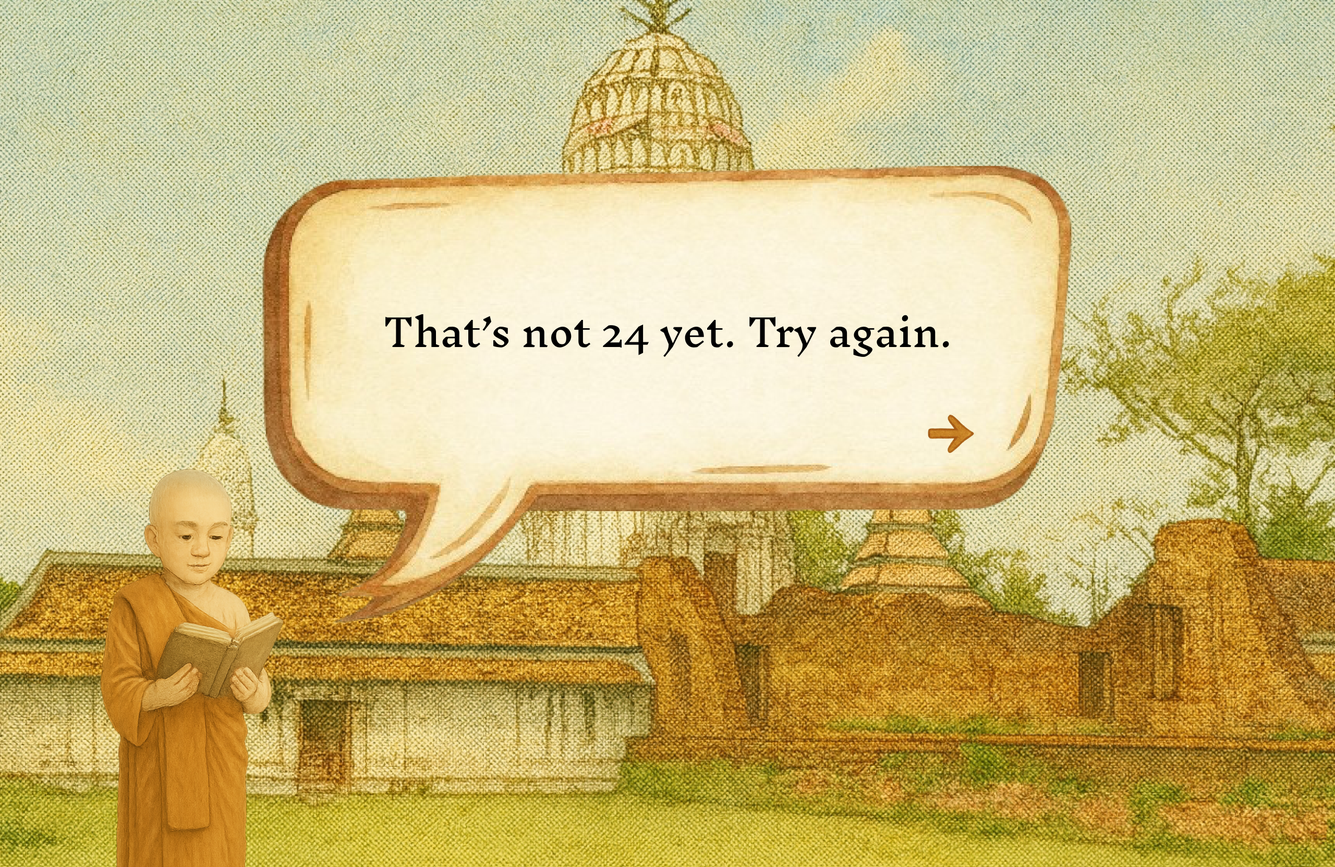
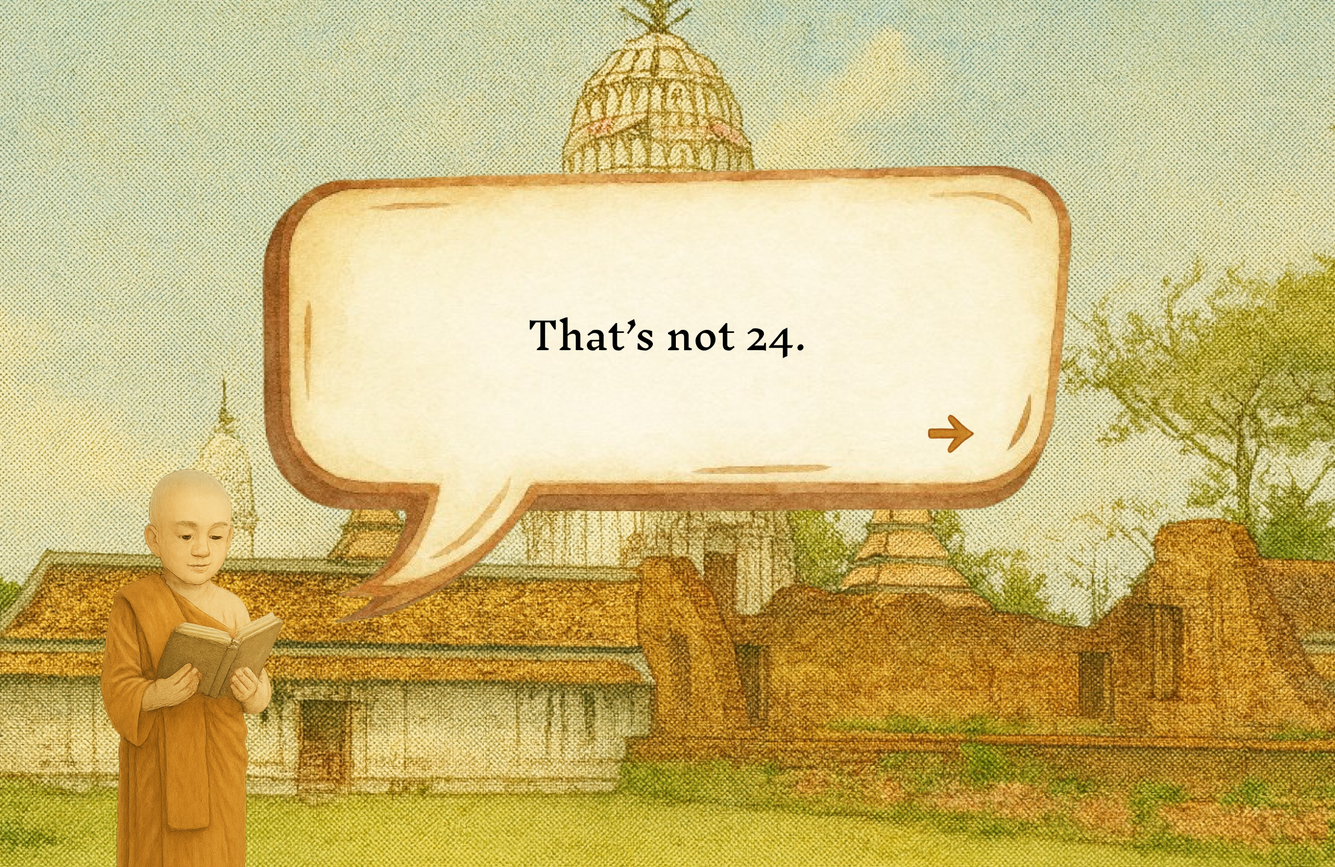
math img edit

Changed region(s): [[0.2812, 0.3438, 0.7188, 0.4062]]

diff --git a/module/games/events/math/math.py b/module/games/events/math/math.py
@@ -4,7 +4,7 @@ import importlib
 import importlib.util
 import os
 import sys
-from typing import List, Optional, Dict, Any
+from typing import List, Optional, Dict, Any, Callable
 
 
 def _ensure_std_math_module() -> None:
@@ -141,6 +141,13 @@ class MathEvent:
         self.slot_spacing = 160
         self.tile_spacing = 150
 
+        # Puzzle configuration (varies by block/button)
+        self.slot_count = 4
+        self.number_choices: List[int] = []
+        self.allow_tile_reuse = False
+        self.solution_checker: Callable[[List[int]], bool] = self._check_solution_default
+        self._configure_puzzle_settings()
+
         # Equal top/bottom padding for timer and submit button
         self.padding_y = int(self.screen_height * 0.05)  # top gap == bottom gap
 
@@ -157,8 +164,8 @@ class MathEvent:
         self.equation_bg_border_c = self.BROWN
 
         # Expression slots and selectable numbers
-        self.slots = self._create_slots()
-        self.number_tiles = self._create_number_tiles([2, 3, 4, 9])
+        self.slots = self._create_slots(self.slot_count)
+        self.number_tiles = self._create_number_tiles(self.number_choices)
 
         # Countdown tracking
         self.countdown_total_ms = 20000
@@ -217,8 +224,8 @@ class MathEvent:
             for index in range(count)
         ]
 
-    def _create_slots(self) -> List[Dict[str, Any]]:
-        centers = self._calculate_centers(4, self.slot_spacing, self.slot_row_y)
+    def _create_slots(self, count: int) -> List[Dict[str, Any]]:
+        centers = self._calculate_centers(count, self.slot_spacing, self.slot_row_y)
         slots: List[Dict[str, Any]] = []
         for center in centers:
             rect = pygame.Rect(0, 0, *self.slot_size)
@@ -301,28 +308,7 @@ class MathEvent:
 
         # --- Cleaner mid section: consistent Y, tidy helpers ---
         mid_y = slot_rects[0].centery
-        def mid_x(a: pygame.Rect, b: pygame.Rect) -> int:
-            return (a.centerx + b.centerx) // 2
-
-        text_positions = [
-            # Opening brackets before first slot
-            {"text": "(",   "pos": (slot_rects[0].left  - 95,  mid_y)},
-            {"text": "(",   "pos": (slot_rects[0].left  - 55,  mid_y)},
-
-            # Between slot 0 and 1
-            {"text": "÷",   "pos": (mid_x(slot_rects[0], slot_rects[1]), mid_y)},
-            {"text": ")",   "pos": (slot_rects[1].right + 55,  mid_y)},
-
-            # Between slot 1 and 2
-            {"text": "×",   "pos": (mid_x(slot_rects[1], slot_rects[2]), mid_y)},
-            {"text": ")",   "pos": (slot_rects[2].right + 55,  mid_y)},
-
-            # Between slot 2 and 3
-            {"text": "×",   "pos": (mid_x(slot_rects[2], slot_rects[3]), mid_y)},
-
-            # Final result
-            {"text": "= 24","pos": (slot_rects[3].right + 125, mid_y)},
-        ]
+        text_positions = self._get_expression_text_positions(slot_rects)
         for element in text_positions:
             text_surface = self.operator_font.render(element["text"], True, equation_color)
             rect = text_surface.get_rect()
@@ -347,8 +333,9 @@ class MathEvent:
             base_rect = tile["rect"]
             hover = base_rect.collidepoint(mouse_pos)
             draw_rect = self._scaled_rect(base_rect, 1.08) if hover else base_rect
-            color = self.BROWN_DIM if tile["selected"] else (136, 103, 50)
-            if hover:
+            color = (136, 103, 50)
+            if not self.allow_tile_reuse and tile["selected"]:
+                color = self.BROWN_DIM
                 color = tuple(min(255, c + 25) for c in color)
             pygame.draw.rect(self.screen, color, draw_rect, border_radius=14)
             pygame.draw.rect(self.screen, self.BLACK, draw_rect, width=3, border_radius=14)
@@ -436,7 +423,7 @@ class MathEvent:
             rect: pygame.Rect = slot["rect"]
             if rect.collidepoint(pos) and slot["value"] is not None:
                 tile = slot["tile"]
-                if tile:
+                if tile and not self.allow_tile_reuse:
                     tile["selected"] = False
                 slot["value"] = None
                 slot["tile"] = None
@@ -444,27 +431,89 @@ class MathEvent:
 
         # Otherwise check number tiles to select
         for tile in self.number_tiles:
-            if tile["rect"].collidepoint(pos) and not tile["selected"]:
-                for slot in self.slots:
-                    if slot["value"] is None:
-                        slot["value"] = tile["value"]
+            if not tile["rect"].collidepoint(pos):
+                continue
+            if not self.allow_tile_reuse and tile["selected"]:
+                continue
+            for slot in self.slots:
+                if slot["value"] is None:
+                    slot["value"] = tile["value"]
+                    slot["tile"] = None
+                    if not self.allow_tile_reuse:
                         slot["tile"] = tile
                         tile["selected"] = True
-                        return
+                    return
+
+    def _get_expression_text_positions(self, slot_rects: List[pygame.Rect]) -> List[Dict[str, Any]]:
+        if not slot_rects:
+            return []
+
+        mid_y = slot_rects[0].centery
+
+        def mid_x(a: pygame.Rect, b: pygame.Rect) -> int:
+            return (a.centerx + b.centerx) // 2
+
+        if self.block_number == 11:
+            return [
+                {"text": "+", "pos": (mid_x(slot_rects[0], slot_rects[1]), mid_y)},
+                {"text": "-", "pos": (mid_x(slot_rects[1], slot_rects[2]), mid_y)},
+                {"text": "+", "pos": (mid_x(slot_rects[2], slot_rects[3]), mid_y)},
+                {"text": "+", "pos": (mid_x(slot_rects[3], slot_rects[4]), mid_y)},
+                {"text": "= 24", "pos": (slot_rects[-1].right + 90, mid_y)},
+            ]
+
+        return [
+            {"text": "(", "pos": (slot_rects[0].left - 95, mid_y)},
+            {"text": "(", "pos": (slot_rects[0].left - 55, mid_y)},
+            {"text": "÷", "pos": (mid_x(slot_rects[0], slot_rects[1]), mid_y)},
+            {"text": ")", "pos": (slot_rects[1].right + 55, mid_y)},
+            {"text": "×", "pos": (mid_x(slot_rects[1], slot_rects[2]), mid_y)},
+            {"text": ")", "pos": (slot_rects[2].right + 55, mid_y)},
+            {"text": "×", "pos": (mid_x(slot_rects[2], slot_rects[3]), mid_y)},
+            {"text": "= 24", "pos": (slot_rects[3].right + 125, mid_y)},
+        ]
 
     def _evaluate_puzzle(self) -> None:
         values = [slot["value"] for slot in self.slots]
         if None in values:
             return
-        n1, n2, n3, n4 = [int(v) for v in values]  # type: ignore
-        try:
-            result = ((n1 / n2) * n3) * n4
-        except ZeroDivisionError:
-            result = None
-        self.puzzle_result = self.RESULT_WIN if result == 24 else self.RESULT_LOSE
+        int_values = [int(v) for v in values]  # type: ignore
+        success = self.solution_checker(int_values)
+        self.puzzle_result = self.RESULT_WIN if success else self.RESULT_LOSE
         self.state = self.STATE_RESULT
         self._result_reported = False
         self._stop_countdown()
+    def _configure_puzzle_settings(self) -> None:
+        if self.block_number == 11:
+            self.slot_count = 5
+            self.slot_spacing = 135
+            self.number_choices = list(range(0, 11))
+            self.allow_tile_reuse = True
+            self.tile_spacing = 110
+            self.solution_checker = self._check_solution_block11
+            return
+
+        self.slot_count = 4
+        self.slot_spacing = 160
+        self.number_choices = [2, 3, 4, 9]
+        self.allow_tile_reuse = False
+        self.tile_spacing = 150
+        self.solution_checker = self._check_solution_default
+
+    def _check_solution_default(self, values: List[int]) -> bool:
+        if len(values) != 4:
+            return False
+        n1, n2, n3, n4 = values
+        try:
+            return ((n1 / n2) * n3) * n4 == 24
+        except ZeroDivisionError:
+            return False
+
+    def _check_solution_block11(self, values: List[int]) -> bool:
+        if len(values) != 5:
+            return False
+        n1, n2, n3, n4, n5 = values
+        return n1 + n2 - n3 + n4 + n5 == 24
 
     def _finalize_result(self) -> Optional[Dict[str, Any]]:
         if self.state != self.STATE_RESULT or self._result_reported:
